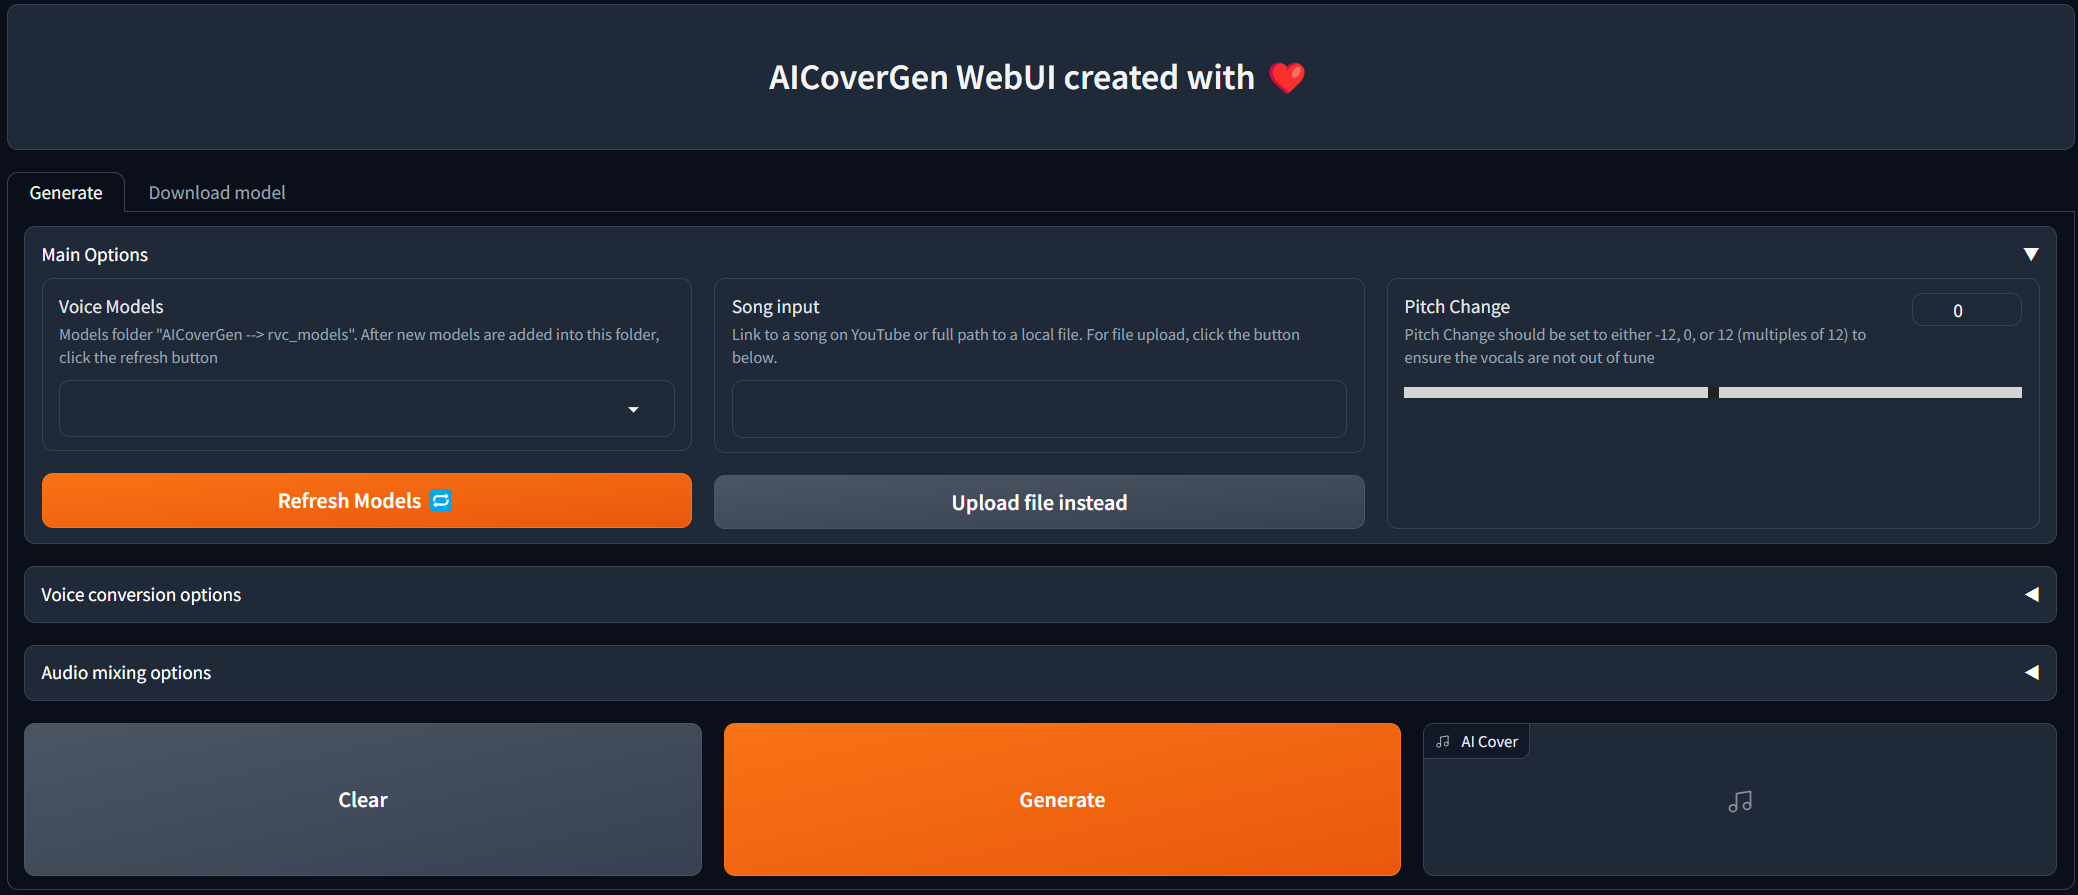
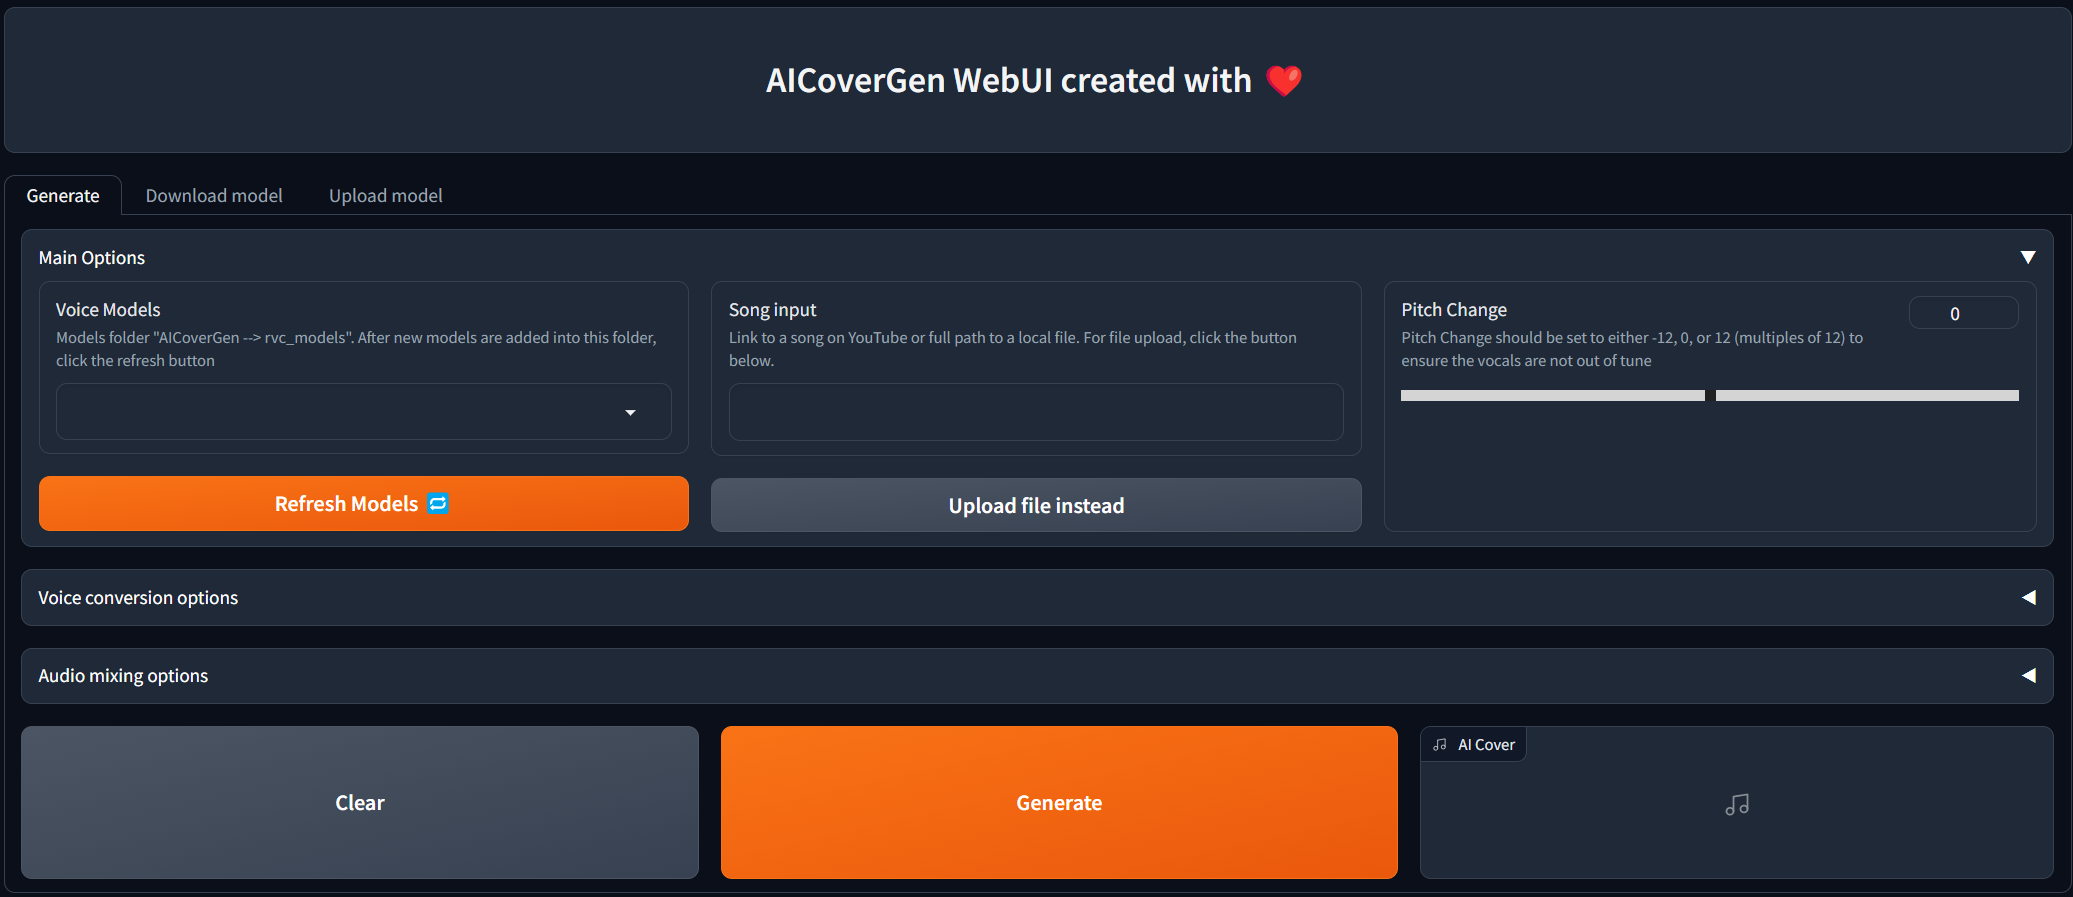
feat: Upload of locally trained RVC v2 models via WebUI

diff --git a/src/webui.py b/src/webui.py
@@ -38,7 +38,36 @@ def load_public_models():
     return gr.DataFrame.update(value=models_table), gr.CheckboxGroup.update(choices=tags)
 
 
-def download_and_extract_zip(url, dir_name, progress=gr.Progress()):
+def extract_zip(extraction_folder, zip_name):
+    os.makedirs(extraction_folder)
+    with zipfile.ZipFile(zip_name, 'r') as zip_ref:
+        zip_ref.extractall(extraction_folder)
+    os.remove(zip_name)
+
+    index_filepath, model_filepath = None, None
+    for root, dirs, files in os.walk(extraction_folder):
+        for name in files:
+            if name.endswith('.index'):
+                index_filepath = os.path.join(root, name)
+
+            if name.endswith('.pth'):
+                model_filepath = os.path.join(root, name)
+
+    if not model_filepath:
+        raise gr.Error(f'No .pth model file was found in the extracted zip. Please check {extraction_folder}.')
+
+    # move model and index file to extraction folder
+    os.rename(model_filepath, os.path.join(extraction_folder, os.path.basename(model_filepath)))
+    if index_filepath:
+        os.rename(index_filepath, os.path.join(extraction_folder, os.path.basename(index_filepath)))
+
+    # remove any unnecessary nested folders
+    for filepath in os.listdir(extraction_folder):
+        if os.path.isdir(os.path.join(extraction_folder, filepath)):
+            shutil.rmtree(os.path.join(extraction_folder, filepath))
+
+
+def download_online_model(url, dir_name, progress=gr.Progress()):
     try:
         progress(0, desc=f'[~] Downloading voice model with name {dir_name}...')
         zip_name = url.split('/')[-1]
@@ -52,35 +81,23 @@ def download_and_extract_zip(url, dir_name, progress=gr.Progress()):
         urllib.request.urlretrieve(url, zip_name)
 
         progress(0.5, desc='[~] Extracting zip...')
-        os.makedirs(extraction_folder)
-        with zipfile.ZipFile(zip_name, 'r') as zip_ref:
-            zip_ref.extractall(extraction_folder)
-        os.remove(zip_name)
-
-        index_filepath, model_filepath = None, None
-        for root, dirs, files in os.walk(extraction_folder):
-            for name in files:
-                if name.endswith('.index'):
-                    index_filepath = os.path.join(root, name)
-
-                if name.endswith('.pth'):
-                    model_filepath = os.path.join(root, name)
-
-        if not model_filepath:
-            raise gr.Error(f'No .pth model file was found in the extracted zip. Please check {extraction_folder}.')
-
-        # move model and index file to extraction folder
-        os.rename(model_filepath, os.path.join(extraction_folder, os.path.basename(model_filepath)))
-        if index_filepath:
-            os.rename(index_filepath, os.path.join(extraction_folder, os.path.basename(index_filepath)))
-
-        # remove any unnecessary nested folders
-        for filepath in os.listdir(extraction_folder):
-            if os.path.isdir(os.path.join(extraction_folder, filepath)):
-                shutil.rmtree(os.path.join(extraction_folder, filepath))
-
-        update_models_list()
+        extract_zip(extraction_folder, zip_name)
         return f'[+] {dir_name} Model successfully downloaded!'
+
+    except Exception as e:
+        raise gr.Error(str(e))
+
+
+def upload_local_model(zip_path, dir_name, progress=gr.Progress()):
+    try:
+        extraction_folder = os.path.join(rvc_models_dir, dir_name)
+        if os.path.exists(extraction_folder):
+            raise gr.Error(f'Voice model directory {dir_name} already exists! Choose a different name for your voice model.')
+
+        zip_name = zip_path.name
+        progress(0.5, desc='[~] Extracting zip...')
+        extract_zip(extraction_folder, zip_name)
+        return f'[+] {dir_name} Model successfully uploaded!'
 
     except Exception as e:
         raise gr.Error(str(e))
@@ -209,7 +226,7 @@ if __name__ == '__main__':
                                      protect, reverb_rm_size, reverb_wet, reverb_dry, reverb_damping, ai_cover])
 
         # Download tab
-        with gr.Tab("Download model"):
+        with gr.Tab('Download model'):
 
             with gr.Tab('From HuggingFace/Pixeldrain URL'):
                 with gr.Row():
@@ -220,7 +237,7 @@ if __name__ == '__main__':
                     download_btn = gr.Button('Download 🌐', variant='primary', scale=19)
                     dl_output_message = gr.Text(label='Output Message', interactive=False, scale=20)
 
-                download_btn.click(download_and_extract_zip, inputs=[model_zip_link, model_name], outputs=dl_output_message)
+                download_btn.click(download_online_model, inputs=[model_zip_link, model_name], outputs=dl_output_message)
 
                 gr.Markdown('## Input Examples')
                 gr.Examples(
@@ -231,7 +248,7 @@ if __name__ == '__main__':
                     ],
                     [model_zip_link, model_name],
                     [],
-                    download_and_extract_zip,
+                    download_online_model,
                 )
 
             with gr.Tab('From Public Index'):
@@ -259,7 +276,26 @@ if __name__ == '__main__':
                 load_public_models_button.click(load_public_models, outputs=[public_models_table, filter_tags])
                 search_query.change(filter_models, inputs=[filter_tags, search_query], outputs=public_models_table)
                 filter_tags.change(filter_models, inputs=[filter_tags, search_query], outputs=public_models_table)
-                download_pub_btn.click(download_and_extract_zip, inputs=[pub_zip_link, pub_model_name], outputs=pub_dl_output_message)
+                download_pub_btn.click(download_online_model, inputs=[pub_zip_link, pub_model_name], outputs=pub_dl_output_message)
+
+        # Upload tab
+        with gr.Tab('Upload model'):
+            gr.Markdown('## Upload locally trained RVC v2 model and index file')
+            gr.Markdown('- Find model file (weights folder) and optional index file (logs/[name] folder)')
+            gr.Markdown('- Compress files into zip file')
+            gr.Markdown('- Upload zip file and give unique name for voice')
+            gr.Markdown('- Click Upload model')
+
+            with gr.Row():
+                with gr.Column():
+                    zip_file = gr.File(label='Zip file')
+
+                local_model_name = gr.Text(label='Model name')
+
+            with gr.Row():
+                model_upload_button = gr.Button('Upload model', variant='primary', scale=19)
+                local_upload_output_message = gr.Text(label='Output Message', interactive=False, scale=20)
+                model_upload_button.click(upload_local_model, inputs=[zip_file, local_model_name], outputs=local_upload_output_message)
 
     app.launch(
         share=args.share_enabled,

diff --git a/README.md b/README.md
@@ -23,6 +23,7 @@ WebUI is under constant development and testing, but you can try it out right no
 - Local network sharing option for webui
 - Extra RVC options - filter_radius, rms_mix_rate, protect
 - Local file upload via file browser option
+- Upload of locally trained RVC v2 models via WebUI
 
 ## Colab notebook
 
@@ -87,7 +88,15 @@ Navigate to the `Download model` tab, and paste the download link to the RVC mod
 You may search the [AI Hub Discord](https://discord.gg/aihub) where already trained voice models are available for download. You may refer to the examples for how the download link should look like.
 The downloaded zip file should contain the .pth model file and an optional .index file.
 
-Once the 2 input fields are filled in, simply click `Download`! Once the output message says `[NAME] Model successfully downloaded!`, you should be able to use it in the `Generate` tab!
+Once the 2 input fields are filled in, simply click `Download`! Once the output message says `[NAME] Model successfully downloaded!`, you should be able to use it in the `Generate` tab after clicking the refresh models button!
+
+### Upload RVC models via WebUI
+
+![](images/webui_upload_model.png?raw=true)
+
+For people who have trained RVC v2 models locally and would like to use them for AI Cover generations.
+Navigate to the `Upload model` tab, and follow the instructions.
+Once the output message says `[NAME] Model successfully uploaded!`, you should be able to use it in the `Generate` tab after clicking the refresh models button!
 
 
 ### Running the pipeline via WebUI
